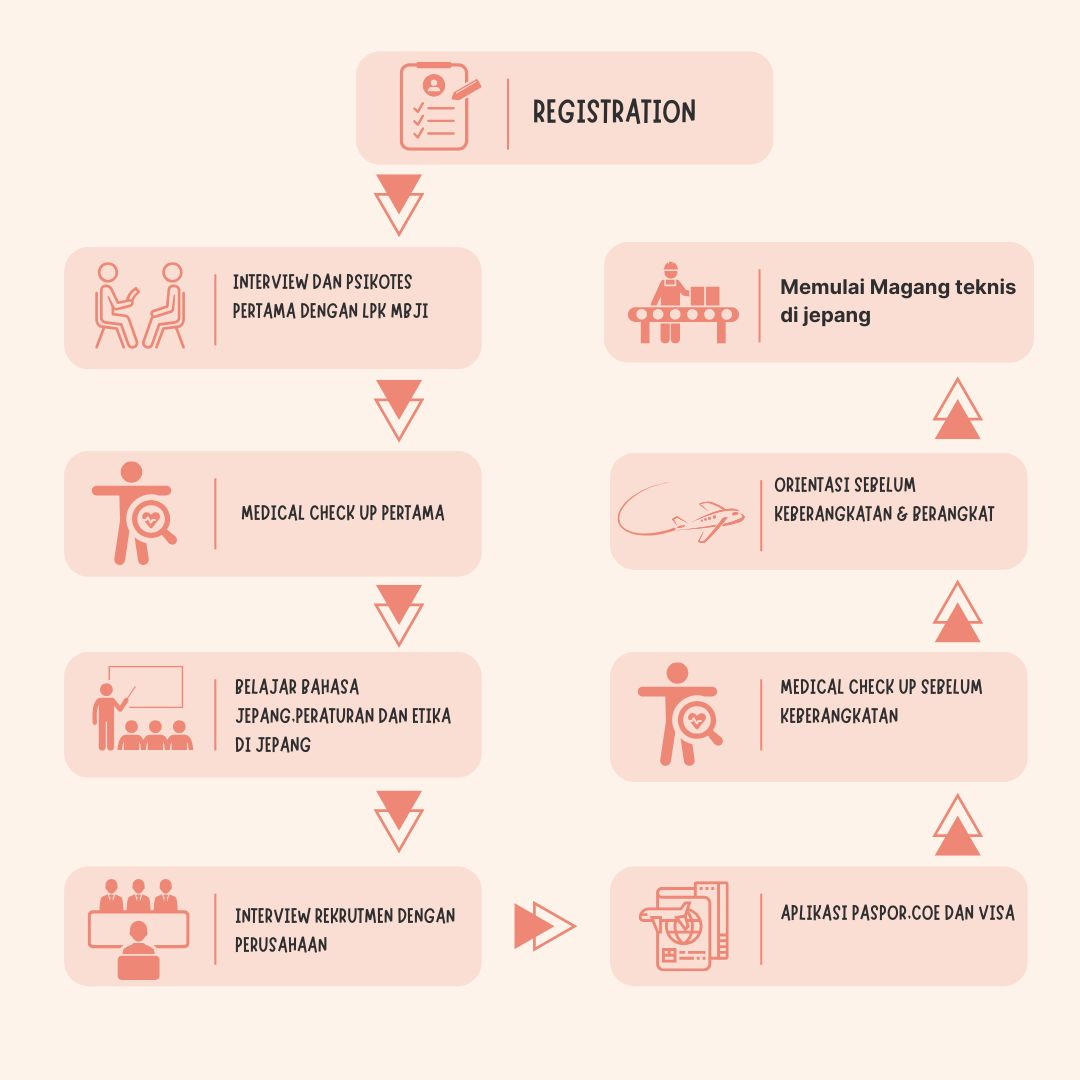
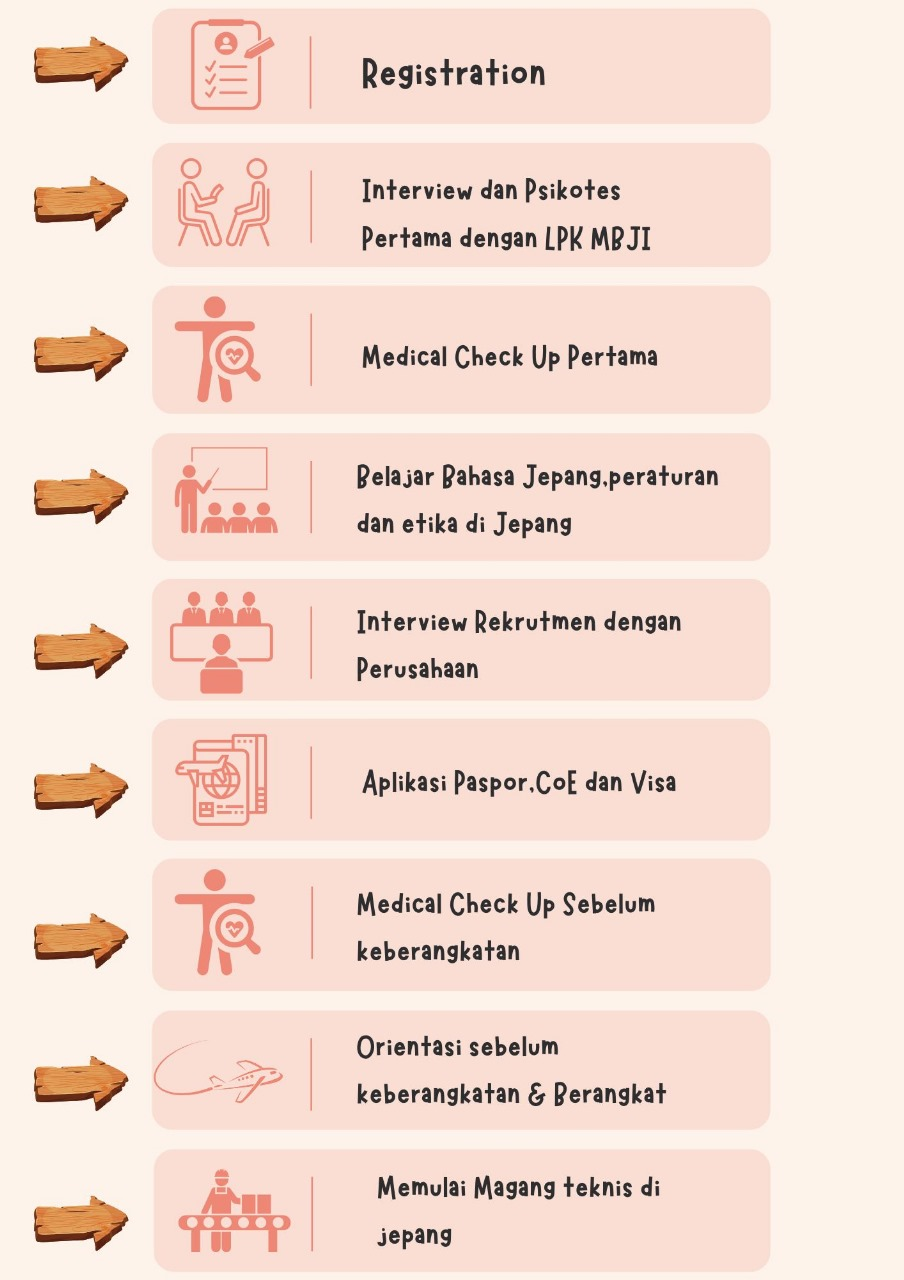
update pendaftaran

diff --git a/resources/views/pages/informasi/pendaftaran.blade.php b/resources/views/pages/informasi/pendaftaran.blade.php
@@ -86,7 +86,7 @@
     </div>
     <div class="row">
         <div class="col-12 text-center mt-4">
-            <a href="#" class="btn btn-primary btn-lg pulse-animation">
+            <a href="https://api.whatsapp.com/send?phone=6285283972464&amp;text=Halo, saya mau informasi lebih lanjut tentang MBJ Indonesia. || Hello, I want to know more about MBJ Indonesia." target="_blank" rel="noopener noreferrer" class="btn btn-primary btn-lg pulse-animation">
                 Daftar Sekarang!
                 <i class="bi bi-arrow-right-circle ms-2"></i>
             </a>
